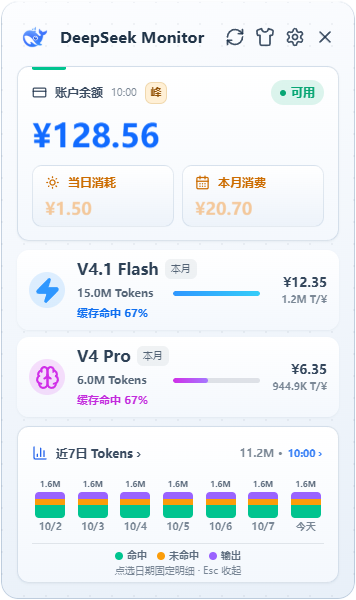
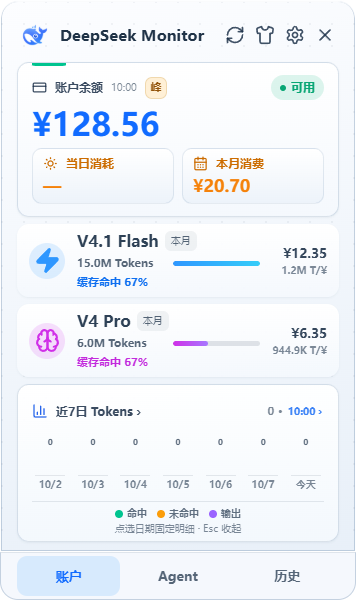
docs: refresh 1.3.0 README and rename repository links

diff --git a/src-tauri/src/commands.rs b/src-tauri/src/commands.rs
@@ -358,8 +358,8 @@ pub(crate) fn get_diagnostics(
 pub(crate) fn open_support_page(window: WebviewWindow, page: String) -> Result<(), String> {
     require_main(&window)?;
     let url = match page.as_str() {
-        "releases" => "https://github.com/Tsuki-hash/DeepSeekMonitorWin/releases",
-        "issues" => "https://github.com/Tsuki-hash/DeepSeekMonitorWin/issues",
+        "releases" => "https://github.com/Tsuki-hash/DeepSeekMonitorWindows/releases",
+        "issues" => "https://github.com/Tsuki-hash/DeepSeekMonitorWindows/issues",
         _ => return Err("未知支持页面".into()),
     };
     let explorer =

diff --git a/src-tauri/src/update_check.rs b/src-tauri/src/update_check.rs
@@ -6,7 +6,7 @@ use std::{
 };
 
 pub const RELEASE_API: &str =
-    "https://api.github.com/repos/Tsuki-hash/DeepSeekMonitorWin/releases/latest";
+    "https://api.github.com/repos/Tsuki-hash/DeepSeekMonitorWindows/releases/latest";
 #[derive(Clone, Debug, Serialize)]
 #[serde(rename_all = "camelCase")]
 pub struct UpdateResult {

diff --git a/README_EN.md b/README_EN.md
@@ -7,8 +7,8 @@
     <img src="https://img.shields.io/badge/License-MIT-22c55e?style=flat-square" alt="MIT License" />
   </p>
   <p>
-    <a href="https://github.com/Tsuki-hash/DeepSeekMonitorWin/releases/latest">Download</a> ·
-    <a href="https://github.com/Tsuki-hash/DeepSeekMonitorWin/issues">Feedback</a> ·
+    <a href="https://github.com/Tsuki-hash/DeepSeekMonitorWindows/releases/latest">Download</a> ·
+    <a href="https://github.com/Tsuki-hash/DeepSeekMonitorWindows/issues">Feedback</a> ·
     <a href="README.md">简体中文</a> / <a href="README_EN.md">English</a>
   </p>
 </div>
@@ -19,7 +19,7 @@ Windows 10 / 11 only. Built with Tauri 2, React 18, and Rust.
 
 **This project is not an official DeepSeek product and is not affiliated with DeepSeek.**
 
-The current source adds persistent Account / Agent / History navigation. Open Agent directly for projects and sessions; exports and archives live under Data, and collection controls under Collection settings. Version 1.3.0 includes adjustable transparency, full history, trend readings, and collapsed zero-usage models. Download it from [GitHub Releases](https://github.com/Tsuki-hash/DeepSeekMonitorWin/releases/tag/v1.3.0).
+Version 1.3.0 provides persistent Account / Agent / History navigation. Open Agent directly for projects and sessions; exports and archives live under Data, and collection controls under Collection settings. Version 1.3.0 includes adjustable transparency, full history, trend readings, and collapsed zero-usage models. Download it from [GitHub Releases](https://github.com/Tsuki-hash/DeepSeekMonitorWindows/releases/tag/v1.3.0).
 
 ## Screenshots
 
@@ -45,7 +45,7 @@ The 1.3.0 installer was updated on 2026-10-10 with this feature set and UI chang
 
 </details>
 
-*These screenshots show the local, unreleased 1.3.0 build with sample data, not a real account. Final model names will be checked when the model launches.*
+*These screenshots show the current 1.3.0 interface with synthetic sample data and contain no real account information.*
 
 <details>
 <summary>View balance and budget reminder settings</summary>
@@ -68,7 +68,7 @@ This project combines three things:
 
 ### Install
 
-Download the latest published `x64-setup.exe` installer from [Releases](https://github.com/Tsuki-hash/DeepSeekMonitorWin/releases/latest). Installing over an older version does not require uninstalling it first.
+Download the latest published `x64-setup.exe` installer from [Releases](https://github.com/Tsuki-hash/DeepSeekMonitorWindows/releases/latest). Installing over an older version does not require uninstalling it first.
 
 Requirements: Windows 10 or Windows 11, plus the Microsoft Edge WebView2 Runtime (included with Windows 11; install separately on Windows 10 if missing).
 
@@ -91,6 +91,10 @@ Usage needs a second credential. See "Two credentials, don't mix them" below.
 - The small “峰” (peak, muted amber) / “谷” (off-peak, muted teal) badge beside the balance update time follows Beijing time. Click for the next transition and rules; off-peak prices are half of peak prices. Holiday exclusions use the full published 2026 State Council holiday ranges, while make-up weekends remain off-peak. Potential peak windows in uncovered years show “—” pending calendar verification. This is a rule-based indication; actual charges follow the platform bill.
 - Balance and usage have separate update times displayed in the computer's local time zone. Usage failures preserve successful data from the same accounting month. Previous-month totals are hidden after a month change, and new dates without fetched data remain unknown. Details and retry or synchronization actions are available.
 - Hover to preview daily data, click to pin it, or use Tab and Enter / Space. Esc dismisses details, which appear below the chart.
+
+- Open **History** from the bottom navigation to browse this month, last month, the last 30 days, a chosen historical month, or all available history. All history loads one month at a time from the API-supported 2020 boundary, newest first, with progress and cancellation. Its monthly chart scrolls horizontally; missing records remain unknown, and platform retention is not guaranteed.
+- Hover over a history bar for the date and exact value; click to pin, use arrow keys to move, or Esc to dismiss. Selection highlights only the actual bar. Explicit zero-usage models are hidden by default and can be shown again; model age alone never removes historical spending.
+- **Settings → Appearance → 背景透明度** adjusts background transparency from 0–70% with live preview, persistence, and reset. Text and icons remain readable.
 
 ## Two credentials, don't mix them
 
@@ -179,7 +183,7 @@ Local CSV/JSON exports retain the actual statistics month and the computer's UTC
 
 The local page's **导出** disclosure exports CSV or JSON for all current records, the selected project or the selected session, preserving unknown values and collection time. Full project paths, internal row IDs, source session titles, conversation bodies and credentials are excluded by default. Paths require explicitly selecting **包含项目完整路径**. CSV uses a UTF-8 BOM and formula-injection protection. Source counts may include token estimates and are not billing evidence.
 
-Open **项目与会话** from history and select **开启本地统计** to enable local statistics. Following [Token Monitor](https://github.com/Javis603/token-monitor), a pinned Tokscale engine reads native records from OpenCode, Claude Code, ZCode, Hermes, OpenClaw and DeepSeek Harness. Drill down from projects to sessions and inspect original model IDs, input/output/cache/reasoning counts. Missing project attribution or fields stay unknown. This version shows per-model session details for the current local month; individual request details remain pending; background collection is now an independent opt-in; standalone local ZCode databases are now supported.
+Open **Agent** in the bottom navigation and select **开启本地统计** to enable local statistics. Switch between projects and sessions directly; exports and archives live under **数据**, and paths/background collection under **采集设置**. Following [Token Monitor](https://github.com/Javis603/token-monitor), a pinned Tokscale engine reads native records from OpenCode, Claude Code, ZCode, Hermes, OpenClaw and DeepSeek Harness. Drill down from projects to sessions and inspect original model IDs, input/output/cache/reasoning counts. Missing project attribution or fields stay unknown. This version shows per-model session details for the current local month; individual request details remain pending; background collection is now an independent opt-in; standalone local ZCode databases are now supported.
 
 Speed uses matched output tokens and generation duration. The initial read shows an average for timed records; subsequent performance-counter changes yield a recent tok/s sample. Polling time is never its denominator, and incomplete timing coverage stays unavailable. It updates from persisted records rather than measuring each streamed token.
 
@@ -220,7 +224,7 @@ Saving accepts only the backend's current snapshot with its matching timestamp. 
 
 ### Background collection (off by default)
 
-Expand **后台采集** and enable **收起后继续采集** after enabling local statistics. This separate setting is stored in local-usage-background-enabled.json and defaults to off. Collection continues outside the local page and while hidden in the tray; quitting stops it. Disabling statistics pauses collection while keeping the background preference; enabling statistics resumes it. Persisted opt-in settings restore at startup. Session retention remains a separate opt-in, and accepted background snapshots participate when it is enabled. Browsing saved history stops foreground polling without disabling configured background collection.
+Open **Agent → 采集设置 → 后台采集** and enable **收起后继续采集** after enabling local statistics. This separate setting is stored in local-usage-background-enabled.json and defaults to off. Collection continues outside the local page and while hidden in the tray; quitting stops it. Disabling statistics pauses collection while keeping the background preference; enabling statistics resumes it. Persisted opt-in settings restore at startup. Session retention remains a separate opt-in, and accepted background snapshots participate when it is enabled. Browsing saved history stops foreground polling without disabling configured background collection.
 
 Foreground and background work share one collector. Source or policy changes invalidate and cancel old work. Native directory events only hint that a refresh may be needed, without deriving token counts or deletion claims. Quiet events coalesce for 1.5 seconds; background scan starts are at least five seconds apart, with an approximately 60-second fallback. Failures back off to 120/240/480/600 seconds between attempts. Access events and SQLite shared-memory-only changes are ignored; WAL and data changes remain eligible. The page reads accepted snapshots in background mode rather than launching duplicate scans; manual refresh remains available.
 
@@ -232,7 +236,7 @@ Actual tray/background cadence, installed restart/retention, tool versions, WSL 
 
 ### Automatic session retention (off by default)
 
-Expand **保存快照与历史归档 → 自动会话留存** and enable **自动留存已读取会话**. Accepted scans retain the latest observed session summary (foreground by default, also background when separately enabled), separated by local month, source, tool and session ID. Corrections replace the summary exactly; unchanged records are not rewritten. Missing sessions remain saved, without implying their source logs were deleted. Records never observed cannot be recovered. Retained records never add to current totals or one another.
+Open **Agent → 数据 → 保存快照与历史归档 → 自动会话留存** and enable **自动留存已读取会话**. Accepted scans retain the latest observed session summary (foreground by default, also background when separately enabled), separated by local month, source, tool and session ID. Corrections replace the summary exactly; unchanged records are not rewritten. Missing sessions remain saved, without implying their source logs were deleted. Records never observed cannot be recovered. Retained records never add to current totals or one another.
 
 `local-usage-retention.json` stores schema1 plain usage metadata separately from manual snapshots; `local-usage-retention-enabled.json` stores the opt-in setting. Limits are 128 monthly session records and 8MiB total, with no automatic eviction. Full project paths, bodies, credentials and source titles are excluded; session IDs, project basenames and source IDs remain. Project keys are hashed. Atomic replacement and validation preserve existing records on corruption, unknown schema, stale timestamps, capacity or write failures. A retention failure warns without discarding successfully collected current statistics. Failed preference reads disable the toggle until explicitly reset to off.
 
@@ -298,8 +302,8 @@ The minimum versions have been verified on Windows MSVC: Node.js 22.6.0 with npm
 The native collector is pinned to Tokscale `d5e8ad9b`; its Windows x64 asset is about 25 MiB. `npm run local-usage:prepare` downloads it and verifies SHA-256. Tauri development and packaging run this preparation first; a verified cached asset can be reused offline. Runtime collection disables online pricing and never downloads an engine. The generated executable stays out of Git; its manifest and MIT notices are tracked. Node/Rust minimum versions remain unchanged.
 
 ```powershell
-git clone https://github.com/Tsuki-hash/DeepSeekMonitorWin.git
-cd DeepSeekMonitorWin
+git clone https://github.com/Tsuki-hash/DeepSeekMonitorWindows.git
+cd DeepSeekMonitorWindows
 npm install
 npm run tauri:dev
 ```
@@ -334,7 +338,7 @@ The installer is produced in `src-tauri/target/release/bundle/nsis/`. If you see
 ### Code layout
 
 ```text
-DeepSeekMonitorWin/
+DeepSeekMonitorWindows/
 ├── .github/workflows/           # CI (version consistency, frontend tests + build, cargo check/clippy/test)
 ├── src/                         # Frontend
 │   ├── main.tsx                 # The entire UI: dashboard, settings, detail page
@@ -397,7 +401,7 @@ This project continues the DeepSeek Monitor family on the Windows desktop. It bu
 | --- | --- | --- | --- |
 | Original | [JayHome137/DeepSeekMonitor](https://github.com/JayHome137/DeepSeekMonitor) | macOS menu bar and WidgetKit desktop widget | Swift 5.9+, SwiftUI, AppKit, WidgetKit |
 | Second | [Joyi-code/DeepSeekMonitorWindows](https://github.com/Joyi-code/DeepSeekMonitorWindows) | Windows desktop | Tauri 2, React, TypeScript, Rust |
-| This project | [Tsuki-hash/DeepSeekMonitorWin](https://github.com/Tsuki-hash/DeepSeekMonitorWin) | Windows desktop | Same as the second generation, continued |
+| This project | [Tsuki-hash/DeepSeekMonitorWindows](https://github.com/Tsuki-hash/DeepSeekMonitorWindows) | Windows desktop | Same as the second generation, continued |
 
 - **Thanks to [@JayHome137](https://github.com/JayHome137/DeepSeekMonitor)** for building the macOS version with Swift, SwiftUI, AppKit, and WidgetKit, and for establishing the idea of glancing at your balance and usage from the corner of your desktop. Without that original project, none of the later versions would exist.
 - **Thanks to [@Joyi-code](https://github.com/Joyi-code/DeepSeekMonitorWindows)** for porting that idea fully to Windows — rebuilding the interface and backend, handling a large amount of platform detail such as tray residency, frameless windows, and WebView2 login-state synchronization, and open-sourcing both the repository and the installer. **The code baseline of this project comes from that repository.**

diff --git a/CHANGELOG.md b/CHANGELOG.md
@@ -1,5 +1,11 @@
 # Changelog
 
+## 仓库与文档维护（2026-10-10）
+
+- 仓库更名为 `DeepSeekMonitorWindows`，同步下载／反馈／更新地址与克隆命令。
+- 中英文 README 同步 1.3.0 入口、完整历史、透明度与模型过滤，重截账户、Agent 和历史界面。
+
+
 ## 1.3.0 — 2026-10-10
 
 ### 新增功能
@@ -133,7 +139,7 @@
 - 真实平台历史覆盖、账单字段和打包后WebView2下载仍待真机验收；六款工具的真实日志/版本/性能覆盖也待核对，合成验证不代表所有版本兼容。逐请求详情和后台监听仍待实施；前台自动会话留存已完成；本轮未打包/提交/推送。
 - 待新模型发布后核对真实模型名称、平台接口与多业务费用口径；正式发布仍需明确授权。
 
-已发布版本见[GitHub Releases](https://github.com/Tsuki-hash/DeepSeekMonitorWin/releases)。
+已发布版本见[GitHub Releases](https://github.com/Tsuki-hash/DeepSeekMonitorWindows/releases)。
 
 本批单路径验证：最新79前端/134Rust完整verify、Rust1.88 locked all-targets通过；五工具单路径真实固定引擎/Rust合成集成另显式1项PASS，浅356/深320新增2组UI及目录3组/项目2组/桌面导出3组回归PASS。3项集成默认ignored：单home六工具此前PASS，双home与单工具本轮分别PASS。全部为合成数据，不读取真实用户日志/账户或执行原生WSL命令。原生WSL/SQLite竞争/工具版本/通知/桌面操作/DPI与新包验收仍待进行，未打包/commit/push/tag/Release。
 
